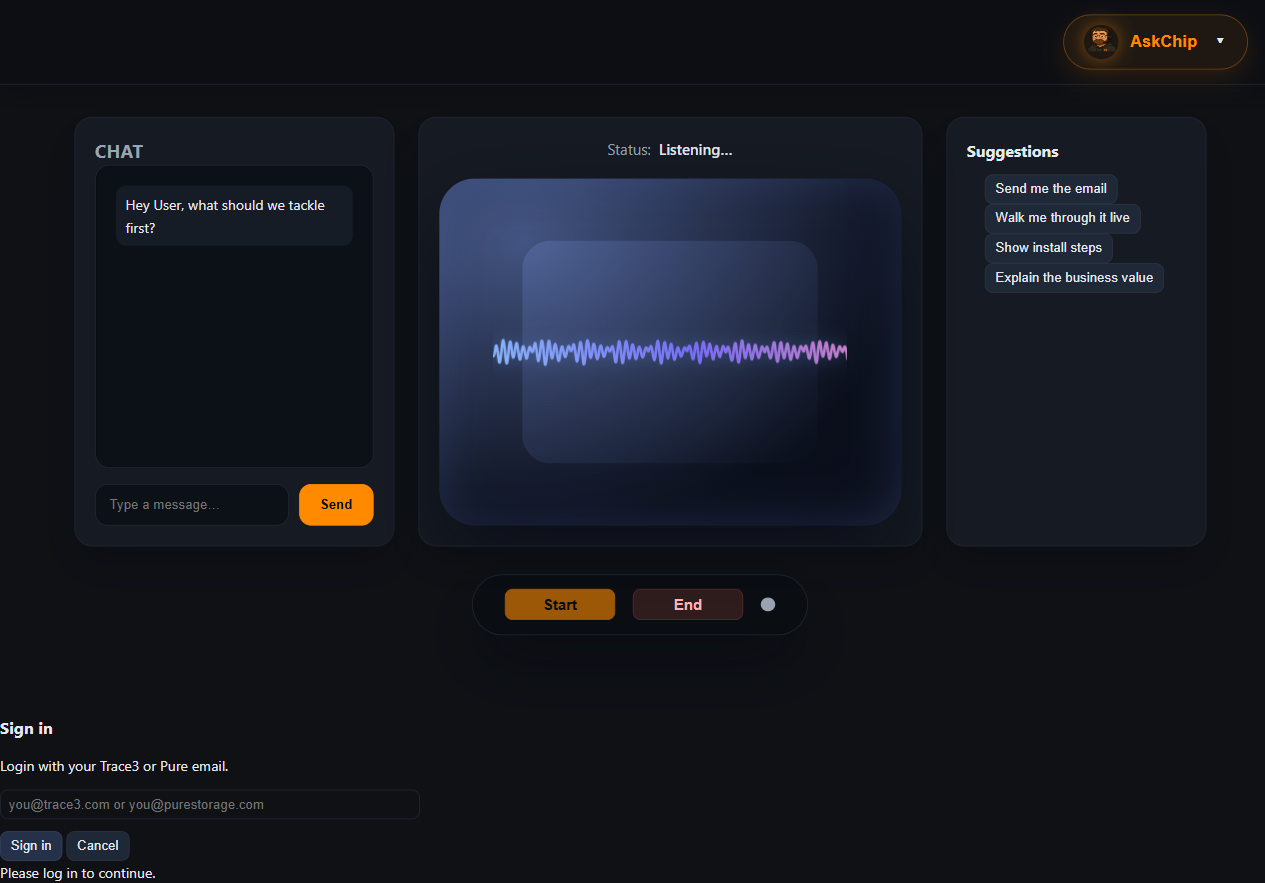
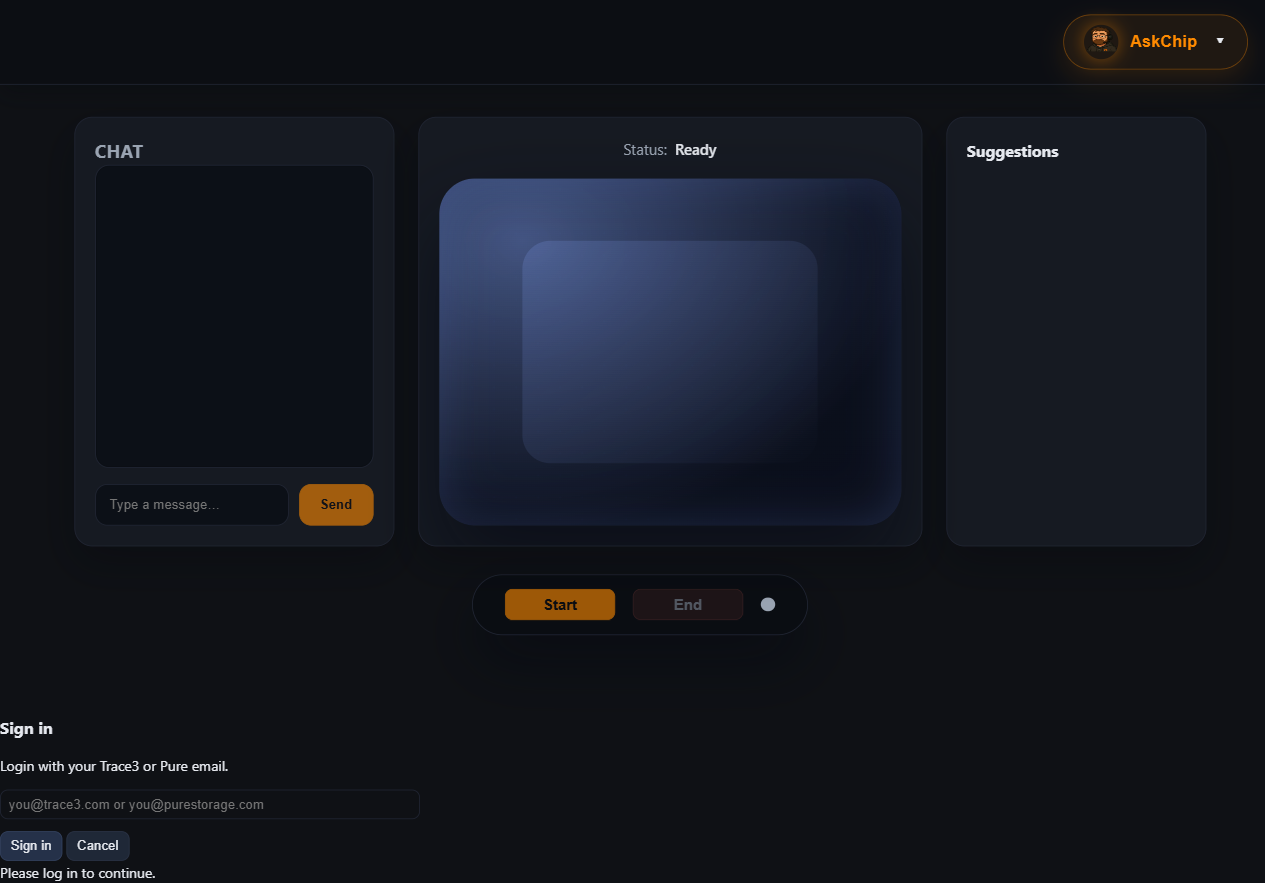
y

diff --git a/artifacts/P6_barge_in_pauses_tts/expect_dom_failure.html b/artifacts/P6_barge_in_pauses_tts/expect_dom_failure.html
@@ -1,7 +1,7 @@
 <!DOCTYPE html><html lang="en"><head>
   <meta charset="utf-8">
   <meta name="viewport" content="width=device-width, initial-scale=1">
-  <meta name="csrf" content="f1d471bc8f8241e3cec72f9501cc43e9">
+  <meta name="csrf" content="ebce9a2085a74c770b3220eec4107e5b">
   <title>Ask Chip</title>
   <link rel="stylesheet" href="/static/css/app.css">
 </head>
@@ -29,35 +29,35 @@
         <div class="pane-header">
           <h2>Chat</h2>
         </div>
-        <div id="chatMessages" class="chat-window"><div data-role="assistant" data-turn-id="04409188aa444a14a770c13c71dcd8e0" class="msg assistant">Hey User, what should we tackle first?</div></div>
+        <div id="chatMessages" class="chat-window"></div>
         <div class="composer">
           <input id="composer" placeholder="Type a message…" style="">
-          <button id="composerSend">Send</button>
+          <button id="composerSend" disabled="">Send</button>
         </div>
       </aside>
 
       <section class="visualizer-pane">
         <div class="status-row">
           <span class="status-label">Status:</span>
-          <span id="statusText">Listening…</span>
-        <span id="userTranscriptPreview" class="asr-preview" aria-live="polite" style="display: none;"></span></div>
+          <span id="statusText">Ready</span>
+        </div>
         <div class="visualizer-shell" role="img" aria-label="Audio visualizer">
           <div class="visualizer-backdrop">
-            <canvas class="visualizer-waveform" role="presentation" width="354" height="239"></canvas>
+            <canvas class="visualizer-waveform" role="presentation"></canvas>
           </div>
         </div>
       </section>
 
       <aside class="suggestions-pane">
         <h4>Suggestions</h4>
-        <ul id="suggestions"><button class="chip" type="button">Send me the email</button><button class="chip" type="button">Walk me through it live</button><button class="chip" type="button">Show install steps</button><button class="chip" type="button">Explain the business value</button></ul>
+        <ul id="suggestions"></ul>
       </aside>
     </div>
 
     <div class="meeting-toolbar">
       <div class="toolbar-buttons">
         <button id="startButton" class="primary" title="Please complete your profile to continue" disabled="">Start</button>
-        <button id="endButton">End</button>
+        <button id="endButton" disabled="">End</button>
         <span id="stateDot" class="dot dot-ready" title="Ready"></span>
       </div>
     </div>
@@ -100,10 +100,11 @@
   <!-- Scripts -->
   
   <script>
-    window.__askchipAssetVersion = "1760317169";
+    window.__askchipAssetVersion = "1760325989";
   </script>
-  <script type="module" src="/static/js/bootstrap.js?v=1760317169"></script>
-  <script type="module" src="/static/js/auth_gate.js?v=1760317169"></script>
-  <script type="module" src="/static/js/ui_menu.js?v=1760317169"></script>
+  <script type="module" src="/static/js/askchip_client_hooks.js?v=1760325989"></script>
+  <script type="module" src="/static/js/bootstrap.js?v=1760325989"></script>
+  <script type="module" src="/static/js/auth_gate.js?v=1760325989"></script>
+  <script type="module" src="/static/js/ui_menu.js?v=1760325989"></script>
 
 </body></html>

diff --git a/artifacts/P10_persona_governor_on_diagnose/expect_dom_failure.html b/artifacts/P10_persona_governor_on_diagnose/expect_dom_failure.html
@@ -1,7 +1,7 @@
 <!DOCTYPE html><html lang="en"><head>
   <meta charset="utf-8">
   <meta name="viewport" content="width=device-width, initial-scale=1">
-  <meta name="csrf" content="9f111700e5077bbdda973ea61442a2de">
+  <meta name="csrf" content="8bbea17b4750c06463329884b866baee">
   <title>Ask Chip</title>
   <link rel="stylesheet" href="/static/css/app.css">
 </head>
@@ -100,11 +100,11 @@
   <!-- Scripts -->
   
   <script>
-    window.__askchipAssetVersion = "1760321820";
+    window.__askchipAssetVersion = "1760325989";
   </script>
-  <script type="module" src="/static/js/askchip_client_hooks.js?v=1760321820"></script>
-  <script type="module" src="/static/js/bootstrap.js?v=1760321820"></script>
-  <script type="module" src="/static/js/auth_gate.js?v=1760321820"></script>
-  <script type="module" src="/static/js/ui_menu.js?v=1760321820"></script>
+  <script type="module" src="/static/js/askchip_client_hooks.js?v=1760325989"></script>
+  <script type="module" src="/static/js/bootstrap.js?v=1760325989"></script>
+  <script type="module" src="/static/js/auth_gate.js?v=1760325989"></script>
+  <script type="module" src="/static/js/ui_menu.js?v=1760325989"></script>
 
 </body></html>

diff --git a/artifacts/P11_session_goal_persists/expect_dom_failure.html b/artifacts/P11_session_goal_persists/expect_dom_failure.html
@@ -1,7 +1,7 @@
 <!DOCTYPE html><html lang="en"><head>
   <meta charset="utf-8">
   <meta name="viewport" content="width=device-width, initial-scale=1">
-  <meta name="csrf" content="9e2d0fe6a7c0d46990a1f2f8789b3365">
+  <meta name="csrf" content="9d9b8359a4778774de112f6fb30ffba3">
   <title>Ask Chip</title>
   <link rel="stylesheet" href="/static/css/app.css">
 </head>
@@ -100,11 +100,11 @@
   <!-- Scripts -->
   
   <script>
-    window.__askchipAssetVersion = "1760321820";
+    window.__askchipAssetVersion = "1760325989";
   </script>
-  <script type="module" src="/static/js/askchip_client_hooks.js?v=1760321820"></script>
-  <script type="module" src="/static/js/bootstrap.js?v=1760321820"></script>
-  <script type="module" src="/static/js/auth_gate.js?v=1760321820"></script>
-  <script type="module" src="/static/js/ui_menu.js?v=1760321820"></script>
+  <script type="module" src="/static/js/askchip_client_hooks.js?v=1760325989"></script>
+  <script type="module" src="/static/js/bootstrap.js?v=1760325989"></script>
+  <script type="module" src="/static/js/auth_gate.js?v=1760325989"></script>
+  <script type="module" src="/static/js/ui_menu.js?v=1760325989"></script>
 
 </body></html>

diff --git a/artifacts/P12_nlu_completeness/expect_dom_failure.html b/artifacts/P12_nlu_completeness/expect_dom_failure.html
@@ -1,7 +1,7 @@
 <!DOCTYPE html><html lang="en"><head>
   <meta charset="utf-8">
   <meta name="viewport" content="width=device-width, initial-scale=1">
-  <meta name="csrf" content="9568a9784210d9922d385c8c6ea56f58">
+  <meta name="csrf" content="29df3d1edd2a5cd1641eeeb821035dac">
   <title>Ask Chip</title>
   <link rel="stylesheet" href="/static/css/app.css">
 </head>
@@ -100,11 +100,11 @@
   <!-- Scripts -->
   
   <script>
-    window.__askchipAssetVersion = "1760321820";
+    window.__askchipAssetVersion = "1760325989";
   </script>
-  <script type="module" src="/static/js/askchip_client_hooks.js?v=1760321820"></script>
-  <script type="module" src="/static/js/bootstrap.js?v=1760321820"></script>
-  <script type="module" src="/static/js/auth_gate.js?v=1760321820"></script>
-  <script type="module" src="/static/js/ui_menu.js?v=1760321820"></script>
+  <script type="module" src="/static/js/askchip_client_hooks.js?v=1760325989"></script>
+  <script type="module" src="/static/js/bootstrap.js?v=1760325989"></script>
+  <script type="module" src="/static/js/auth_gate.js?v=1760325989"></script>
+  <script type="module" src="/static/js/ui_menu.js?v=1760325989"></script>
 
 </body></html>

diff --git a/artifacts/P15_long_help_session/expect_dom_failure.html b/artifacts/P15_long_help_session/expect_dom_failure.html
@@ -1,7 +1,7 @@
 <!DOCTYPE html><html lang="en"><head>
   <meta charset="utf-8">
   <meta name="viewport" content="width=device-width, initial-scale=1">
-  <meta name="csrf" content="b18a04fdf09bde4ed87122d35ada7467">
+  <meta name="csrf" content="99f63c9e464194db4be4a757efe35fd2">
   <title>Ask Chip</title>
   <link rel="stylesheet" href="/static/css/app.css">
 </head>
@@ -100,11 +100,11 @@
   <!-- Scripts -->
   
   <script>
-    window.__askchipAssetVersion = "1760321820";
+    window.__askchipAssetVersion = "1760325989";
   </script>
-  <script type="module" src="/static/js/askchip_client_hooks.js?v=1760321820"></script>
-  <script type="module" src="/static/js/bootstrap.js?v=1760321820"></script>
-  <script type="module" src="/static/js/auth_gate.js?v=1760321820"></script>
-  <script type="module" src="/static/js/ui_menu.js?v=1760321820"></script>
+  <script type="module" src="/static/js/askchip_client_hooks.js?v=1760325989"></script>
+  <script type="module" src="/static/js/bootstrap.js?v=1760325989"></script>
+  <script type="module" src="/static/js/auth_gate.js?v=1760325989"></script>
+  <script type="module" src="/static/js/ui_menu.js?v=1760325989"></script>
 
 </body></html>

diff --git a/artifacts/P1_greet_dupe_guard/expect_dom_failure.html b/artifacts/P1_greet_dupe_guard/expect_dom_failure.html
@@ -1,7 +1,7 @@
 <!DOCTYPE html><html lang="en"><head>
   <meta charset="utf-8">
   <meta name="viewport" content="width=device-width, initial-scale=1">
-  <meta name="csrf" content="895aace19073b530e401db650afc77f2">
+  <meta name="csrf" content="67761dc0f96460bd10670a20b4c9c18b">
   <title>Ask Chip</title>
   <link rel="stylesheet" href="/static/css/app.css">
 </head>
@@ -100,11 +100,11 @@
   <!-- Scripts -->
   
   <script>
-    window.__askchipAssetVersion = "1760321820";
+    window.__askchipAssetVersion = "1760325989";
   </script>
-  <script type="module" src="/static/js/askchip_client_hooks.js?v=1760321820"></script>
-  <script type="module" src="/static/js/bootstrap.js?v=1760321820"></script>
-  <script type="module" src="/static/js/auth_gate.js?v=1760321820"></script>
-  <script type="module" src="/static/js/ui_menu.js?v=1760321820"></script>
+  <script type="module" src="/static/js/askchip_client_hooks.js?v=1760325989"></script>
+  <script type="module" src="/static/js/bootstrap.js?v=1760325989"></script>
+  <script type="module" src="/static/js/auth_gate.js?v=1760325989"></script>
+  <script type="module" src="/static/js/ui_menu.js?v=1760325989"></script>
 
 </body></html>

diff --git a/artifacts/P2_mic_arms_after_greet/expect_dom_failure.html b/artifacts/P2_mic_arms_after_greet/expect_dom_failure.html
@@ -1,7 +1,7 @@
 <!DOCTYPE html><html lang="en"><head>
   <meta charset="utf-8">
   <meta name="viewport" content="width=device-width, initial-scale=1">
-  <meta name="csrf" content="0bf6ea5a108263db45ade97629939af1">
+  <meta name="csrf" content="803b3c99362e2721e7e2bbf780d04632">
   <title>Ask Chip</title>
   <link rel="stylesheet" href="/static/css/app.css">
 </head>
@@ -100,11 +100,11 @@
   <!-- Scripts -->
   
   <script>
-    window.__askchipAssetVersion = "1760321820";
+    window.__askchipAssetVersion = "1760325989";
   </script>
-  <script type="module" src="/static/js/askchip_client_hooks.js?v=1760321820"></script>
-  <script type="module" src="/static/js/bootstrap.js?v=1760321820"></script>
-  <script type="module" src="/static/js/auth_gate.js?v=1760321820"></script>
-  <script type="module" src="/static/js/ui_menu.js?v=1760321820"></script>
+  <script type="module" src="/static/js/askchip_client_hooks.js?v=1760325989"></script>
+  <script type="module" src="/static/js/bootstrap.js?v=1760325989"></script>
+  <script type="module" src="/static/js/auth_gate.js?v=1760325989"></script>
+  <script type="module" src="/static/js/ui_menu.js?v=1760325989"></script>
 
 </body></html>

diff --git a/artifacts/P3_asr_ready_gate/expect_dom_failure.html b/artifacts/P3_asr_ready_gate/expect_dom_failure.html
@@ -1,7 +1,7 @@
 <!DOCTYPE html><html lang="en"><head>
   <meta charset="utf-8">
   <meta name="viewport" content="width=device-width, initial-scale=1">
-  <meta name="csrf" content="120648a68595332451895cfb5ea3fb25">
+  <meta name="csrf" content="bc6e7c11f5c15617d01c6c9741941ddd">
   <title>Ask Chip</title>
   <link rel="stylesheet" href="/static/css/app.css">
 </head>
@@ -100,11 +100,11 @@
   <!-- Scripts -->
   
   <script>
-    window.__askchipAssetVersion = "1760321820";
+    window.__askchipAssetVersion = "1760325989";
   </script>
-  <script type="module" src="/static/js/askchip_client_hooks.js?v=1760321820"></script>
-  <script type="module" src="/static/js/bootstrap.js?v=1760321820"></script>
-  <script type="module" src="/static/js/auth_gate.js?v=1760321820"></script>
-  <script type="module" src="/static/js/ui_menu.js?v=1760321820"></script>
+  <script type="module" src="/static/js/askchip_client_hooks.js?v=1760325989"></script>
+  <script type="module" src="/static/js/bootstrap.js?v=1760325989"></script>
+  <script type="module" src="/static/js/auth_gate.js?v=1760325989"></script>
+  <script type="module" src="/static/js/ui_menu.js?v=1760325989"></script>
 
 </body></html>

diff --git a/artifacts/P4_containerized_opus_sanitized/expect_dom_failure.html b/artifacts/P4_containerized_opus_sanitized/expect_dom_failure.html
@@ -1,7 +1,7 @@
 <!DOCTYPE html><html lang="en"><head>
   <meta charset="utf-8">
   <meta name="viewport" content="width=device-width, initial-scale=1">
-  <meta name="csrf" content="92d640055e0a5ec71eade8a780379515">
+  <meta name="csrf" content="0a463ecc98cd36c2a17d9e5bea5b070a">
   <title>Ask Chip</title>
   <link rel="stylesheet" href="/static/css/app.css">
 </head>
@@ -100,11 +100,11 @@
   <!-- Scripts -->
   
   <script>
-    window.__askchipAssetVersion = "1760321820";
+    window.__askchipAssetVersion = "1760325989";
   </script>
-  <script type="module" src="/static/js/askchip_client_hooks.js?v=1760321820"></script>
-  <script type="module" src="/static/js/bootstrap.js?v=1760321820"></script>
-  <script type="module" src="/static/js/auth_gate.js?v=1760321820"></script>
-  <script type="module" src="/static/js/ui_menu.js?v=1760321820"></script>
+  <script type="module" src="/static/js/askchip_client_hooks.js?v=1760325989"></script>
+  <script type="module" src="/static/js/bootstrap.js?v=1760325989"></script>
+  <script type="module" src="/static/js/auth_gate.js?v=1760325989"></script>
+  <script type="module" src="/static/js/ui_menu.js?v=1760325989"></script>
 
 </body></html>

diff --git a/artifacts/P5_close_timeout_race/expect_dom_failure.html b/artifacts/P5_close_timeout_race/expect_dom_failure.html
@@ -1,7 +1,7 @@
 <!DOCTYPE html><html lang="en"><head>
   <meta charset="utf-8">
   <meta name="viewport" content="width=device-width, initial-scale=1">
-  <meta name="csrf" content="3f4052571ded388c1a04d3b5b78ca5b1">
+  <meta name="csrf" content="970299c5f248ec5bc710e75236609f16">
   <title>Ask Chip</title>
   <link rel="stylesheet" href="/static/css/app.css">
 </head>
@@ -100,11 +100,11 @@
   <!-- Scripts -->
   
   <script>
-    window.__askchipAssetVersion = "1760321820";
+    window.__askchipAssetVersion = "1760325989";
   </script>
-  <script type="module" src="/static/js/askchip_client_hooks.js?v=1760321820"></script>
-  <script type="module" src="/static/js/bootstrap.js?v=1760321820"></script>
-  <script type="module" src="/static/js/auth_gate.js?v=1760321820"></script>
-  <script type="module" src="/static/js/ui_menu.js?v=1760321820"></script>
+  <script type="module" src="/static/js/askchip_client_hooks.js?v=1760325989"></script>
+  <script type="module" src="/static/js/bootstrap.js?v=1760325989"></script>
+  <script type="module" src="/static/js/auth_gate.js?v=1760325989"></script>
+  <script type="module" src="/static/js/ui_menu.js?v=1760325989"></script>
 
 </body></html>

diff --git a/artifacts/P7_state_debounce/expect_dom_failure.html b/artifacts/P7_state_debounce/expect_dom_failure.html
@@ -1,7 +1,7 @@
 <!DOCTYPE html><html lang="en"><head>
   <meta charset="utf-8">
   <meta name="viewport" content="width=device-width, initial-scale=1">
-  <meta name="csrf" content="bb2fd6cda653571fe5aeacc65336d58a">
+  <meta name="csrf" content="926b99996bebeaa6cd785dee06ce4be7">
   <title>Ask Chip</title>
   <link rel="stylesheet" href="/static/css/app.css">
 </head>
@@ -100,11 +100,11 @@
   <!-- Scripts -->
   
   <script>
-    window.__askchipAssetVersion = "1760321820";
+    window.__askchipAssetVersion = "1760325989";
   </script>
-  <script type="module" src="/static/js/askchip_client_hooks.js?v=1760321820"></script>
-  <script type="module" src="/static/js/bootstrap.js?v=1760321820"></script>
-  <script type="module" src="/static/js/auth_gate.js?v=1760321820"></script>
-  <script type="module" src="/static/js/ui_menu.js?v=1760321820"></script>
+  <script type="module" src="/static/js/askchip_client_hooks.js?v=1760325989"></script>
+  <script type="module" src="/static/js/bootstrap.js?v=1760325989"></script>
+  <script type="module" src="/static/js/auth_gate.js?v=1760325989"></script>
+  <script type="module" src="/static/js/ui_menu.js?v=1760325989"></script>
 
 </body></html>

diff --git a/artifacts/P8_no_assistant_dup_messages/expect_dom_failure.html b/artifacts/P8_no_assistant_dup_messages/expect_dom_failure.html
@@ -1,7 +1,7 @@
 <!DOCTYPE html><html lang="en"><head>
   <meta charset="utf-8">
   <meta name="viewport" content="width=device-width, initial-scale=1">
-  <meta name="csrf" content="d62676bad8da1f436241be74b4b2580e">
+  <meta name="csrf" content="75df8b19b626dd6dd9d0f484ea8bc56c">
   <title>Ask Chip</title>
   <link rel="stylesheet" href="/static/css/app.css">
 </head>
@@ -100,11 +100,11 @@
   <!-- Scripts -->
   
   <script>
-    window.__askchipAssetVersion = "1760321820";
+    window.__askchipAssetVersion = "1760325989";
   </script>
-  <script type="module" src="/static/js/askchip_client_hooks.js?v=1760321820"></script>
-  <script type="module" src="/static/js/bootstrap.js?v=1760321820"></script>
-  <script type="module" src="/static/js/auth_gate.js?v=1760321820"></script>
-  <script type="module" src="/static/js/ui_menu.js?v=1760321820"></script>
+  <script type="module" src="/static/js/askchip_client_hooks.js?v=1760325989"></script>
+  <script type="module" src="/static/js/bootstrap.js?v=1760325989"></script>
+  <script type="module" src="/static/js/auth_gate.js?v=1760325989"></script>
+  <script type="module" src="/static/js/ui_menu.js?v=1760325989"></script>
 
 </body></html>
